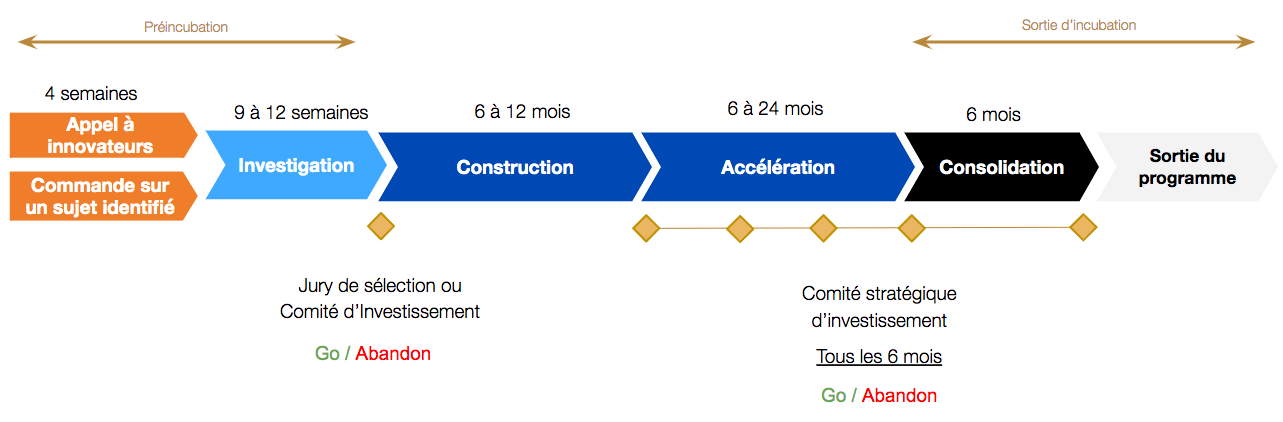
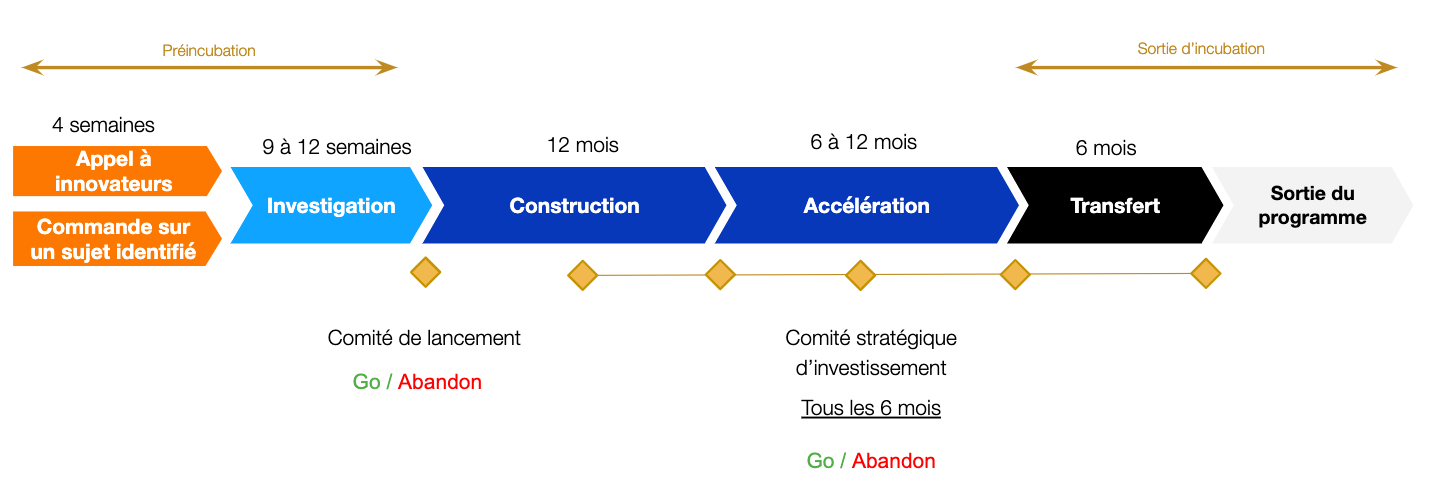
Change "Phase de Consolidation" en "Phase de transfert" (#3758)
* Supprime Recap_Phases du dossier principal

* Supprime recap_phases depuis le dossier img

* Met à jour l'illustration recap_phases

* Décrit la phase de transfert

* Change "consolidation" en "transfert"

* MRS : transfert au lieu de consolidation

* MRS : transfert au lieu de consolidation (2)

* Clara : transfert au lieu de consolidation

* Perspectives : transfert

* Anotea : transfert

* Change template from conso to transfert

* Avril : transfert

* Candilib : transfert

* Maintenant : transfert

* Signaux Faibles : transfert

* Fast : transfert

* Renomme le fichier

diff --git a/_pages/approche.md b/_pages/approche.md
@@ -34,7 +34,7 @@ L’utilisation de cette approche dès le début d’un projet permet de réduir
 Tous les six mois, un comité d’investissement détermine en fonction de l’impact mesuré s’il convient de continuer ou d’arrêter le service. 
 
 Cette approche se décline en général en 4 phases&nbsp;: 
-- une phase d’investigation (6 à 9 semaines) pour mieux cerner le problème à résoudre, comprendre les besoins des personnes concernées et déterminer les hypothèses de solutions susceptibles d’avoir le meilleur impact&nbsp;;
-- une phase de construction (6 à 12 mois) pour tester en conditions réelles une ou plusieurs hypothèses de solutions en conditions réelles mais sur un périmètre réduit, afin de se confronter le plus rapidement possible aux utilisateurs et recueillir des retours&nbsp;; 
-- une phase d’accélération (12 à 24 mois) pour améliorer et déployer le service si son utilité est avérée, avec l’objectif de maximiser son impact&nbsp;;
-- une phase de consolidation (6 mois) pour déterminer la meilleure manière de pérenniser le service, en conservant de préférence une approche centrée sur les utilisateurs dans la durée.
+- une **phase d’investigation** (6 à 9 semaines) pour mieux cerner le problème à résoudre, comprendre les besoins des personnes concernées et déterminer les hypothèses de solutions susceptibles d’avoir le meilleur impact&nbsp;;
+- une **phase de construction** (12 mois) pour tester en conditions réelles une ou plusieurs hypothèses de solutions sur un périmètre réduit, afin de se confronter le plus rapidement possible aux utilisateurs et recueillir des retours&nbsp;; 
+- une **phase d’accélération** (12 mois) pour améliorer et déployer le service si son utilité est avérée, avec l’objectif de maximiser son impact&nbsp;;
+- une **phase de transfert** (6 mois) pour aider l'administration porteuse à pérenniser le service numérique dans une structure propice à maintenir l'approche centrée sur les utilisateurs dans la durée.

diff --git a/content/_startups/mrs.md b/content/_startups/mrs.md
@@ -3,7 +3,7 @@ title: Mes remboursements simplifiés (MRS)
 mission: Simplifier et accélérer le remboursement des frais d'utilisation du véhicule personnel ou des transports en commun
 owner: CNAMTS / CPAM de la Haute-Garonne (31)
 incubator: dinum
-status: consolidation
+status: transfert
 start: 2017-10-01
 end:
 link: https://mrs.beta.gouv.fr
@@ -34,4 +34,4 @@ MRS permet la promotion du véhicule personnel ou des transports en commun, solu
 
 ## Déploiement national
 
-En juin 2019, au vu du succès de MRS, la CNAM décide de déployer le service au national. La phase de consolidation débute à l'été 2019 et se poursuit début 2020 pour assurer la pérennisation du service.
+En juin 2019, au vu du succès de MRS, la CNAM décide de déployer le service au national. La phase de transfert débute à l'été 2019 et se poursuit début 2020 pour assurer la pérennisation du service.

diff --git a/_pages/programme/fast.md b/_pages/programme/fast.md
@@ -70,7 +70,7 @@ Le dossier de candidature doit préciser clairement :
 * Son impact sur le réel chiffré ;
 * En cas de passage à l’échelle réussi, les réorganisations et transformations prévues pour pérenniser le produit après la période de 6 mois (ex : sécurisation d’une équipe dédiée, modification des processus, recrutements supplémentaires, etc).
 
-L’administration pourra continuer à faire appel à l'équipe de beta.gouv.fr pour l’accompagner dans la phase suivante de consolidation. 
+L’administration pourra continuer à faire appel à l'équipe de beta.gouv.fr pour l’accompagner dans la phase suivante de transfert. 
 
 [Cliquez ici pour compléter le dossier de candidature avant le lundi 15 juin 23h59.](https://www.demarches-simplifiees.fr/commencer/fast4)
 

diff --git a/content/templates/startups.md b/content/templates/startups.md
@@ -3,7 +3,7 @@ title: Mes Aides # une majuscule et pas d'acronymes
 mission: Accéder aux conseils de professionnels à proximité pour trouver un logement # infinitif, pas de point ; compléter la phrase « En investissant dans ce produit l'État cherche à… »
 owner: DINUM # Administration porteuse
 incubator: dinum # le nom du fichier de l'incubateur de la startup
-status: consolidation # les phases possibles sont définies dans /content/_phases/
+status: transfert # les phases possibles sont définies dans /content/_phases/
 start: 2015-01-15 # date au format ISO (AAAA-MM-DD)
 end: # laisser vide
 link: https://mes-aides.gouv.fr

diff --git a/content/_startups/perspectives.md b/content/_startups/perspectives.md
@@ -3,7 +3,7 @@ title: Perspectives
 mission: Mettre en relation des candidats validés par la méthode de recrutement par simulation, avec des employeurs et des formations à la recherche de leurs aptitudes
 owner: Pôle emploi
 incubator: pole-emploi
-status: consolidation
+status: transfert
 start: 2018-05-02
 link: https://perspectives.pole-emploi.fr
 repository: https://github.com/StartupsPoleEmploi/perspectives

diff --git a/content/_startups/anotea.md b/content/_startups/anotea.md
@@ -3,7 +3,7 @@ title: Anotea
 mission: Eclairer les personnes qui cherchent une formation professionnelle en affichant les notes et commentaires collectés auprès des demandeurs d'emploi sortis de formation.
 owner: Pôle emploi
 incubator: pole-emploi
-status: consolidation
+status: transfert
 start: 2018-04-01
 link: https://anotea.pole-emploi.fr
 stats: true

diff --git a/content/_startups/clara.md b/content/_startups/clara.md
@@ -3,7 +3,7 @@ title: Clara - Vos aides en un clic
 mission: Découvrir les aides et mesures Pôle emploi qui accélèrent la reprise d'activité
 owner: Pôle emploi
 incubator: pole-emploi
-status: consolidation
+status: transfert
 start: 2017-04-01
 end:
 link: https://clara.pole-emploi.fr/

diff --git a/content/_startups/candilib.md b/content/_startups/candilib.md
@@ -3,7 +3,7 @@ title: CandiLib
 mission: Réserver simplement sa place d'examen pratique au permis de conduire
 owner: Ministère de l'Intérieur
 incubator: lab-mi
-status: consolidation
+status: transfert
 start: 2018-05-01
 end:
 link: https://beta.interieur.gouv.fr/candilib/

diff --git a/content/_startups/avril.md b/content/_startups/avril.md
@@ -3,7 +3,7 @@ title: Avril - La V.A.E. facile
 mission: Obtenir un diplôme grâce à vos compétences
 owner: Pôle emploi
 incubator: pole-emploi
-status: consolidation
+status: transfert
 start: 2017-05-01
 end:
 link: https://avril.pole-emploi.fr

diff --git a/content/_startups/signaux-faibles.md b/content/_startups/signaux-faibles.md
@@ -3,7 +3,7 @@ title: Signaux Faibles
 mission: Mieux cibler les interventions en remédiation de l’État vers les entreprises en difficulté
 owner: DINUM
 incubator: dinum
-status: consolidation
+status: transfert
 start: 2014-05-15
 end:
 link: 

diff --git a/content/_phases/transfert.md b/content/_phases/transfert.md
@@ -1,0 +1,7 @@
+---
+status: transfert
+label: Transfert
+type_label: service
+order: 2
+short_description: Le service, à présent disponible pour tous et mature, rejoint une structure propice à sa pérennisation.
+---
